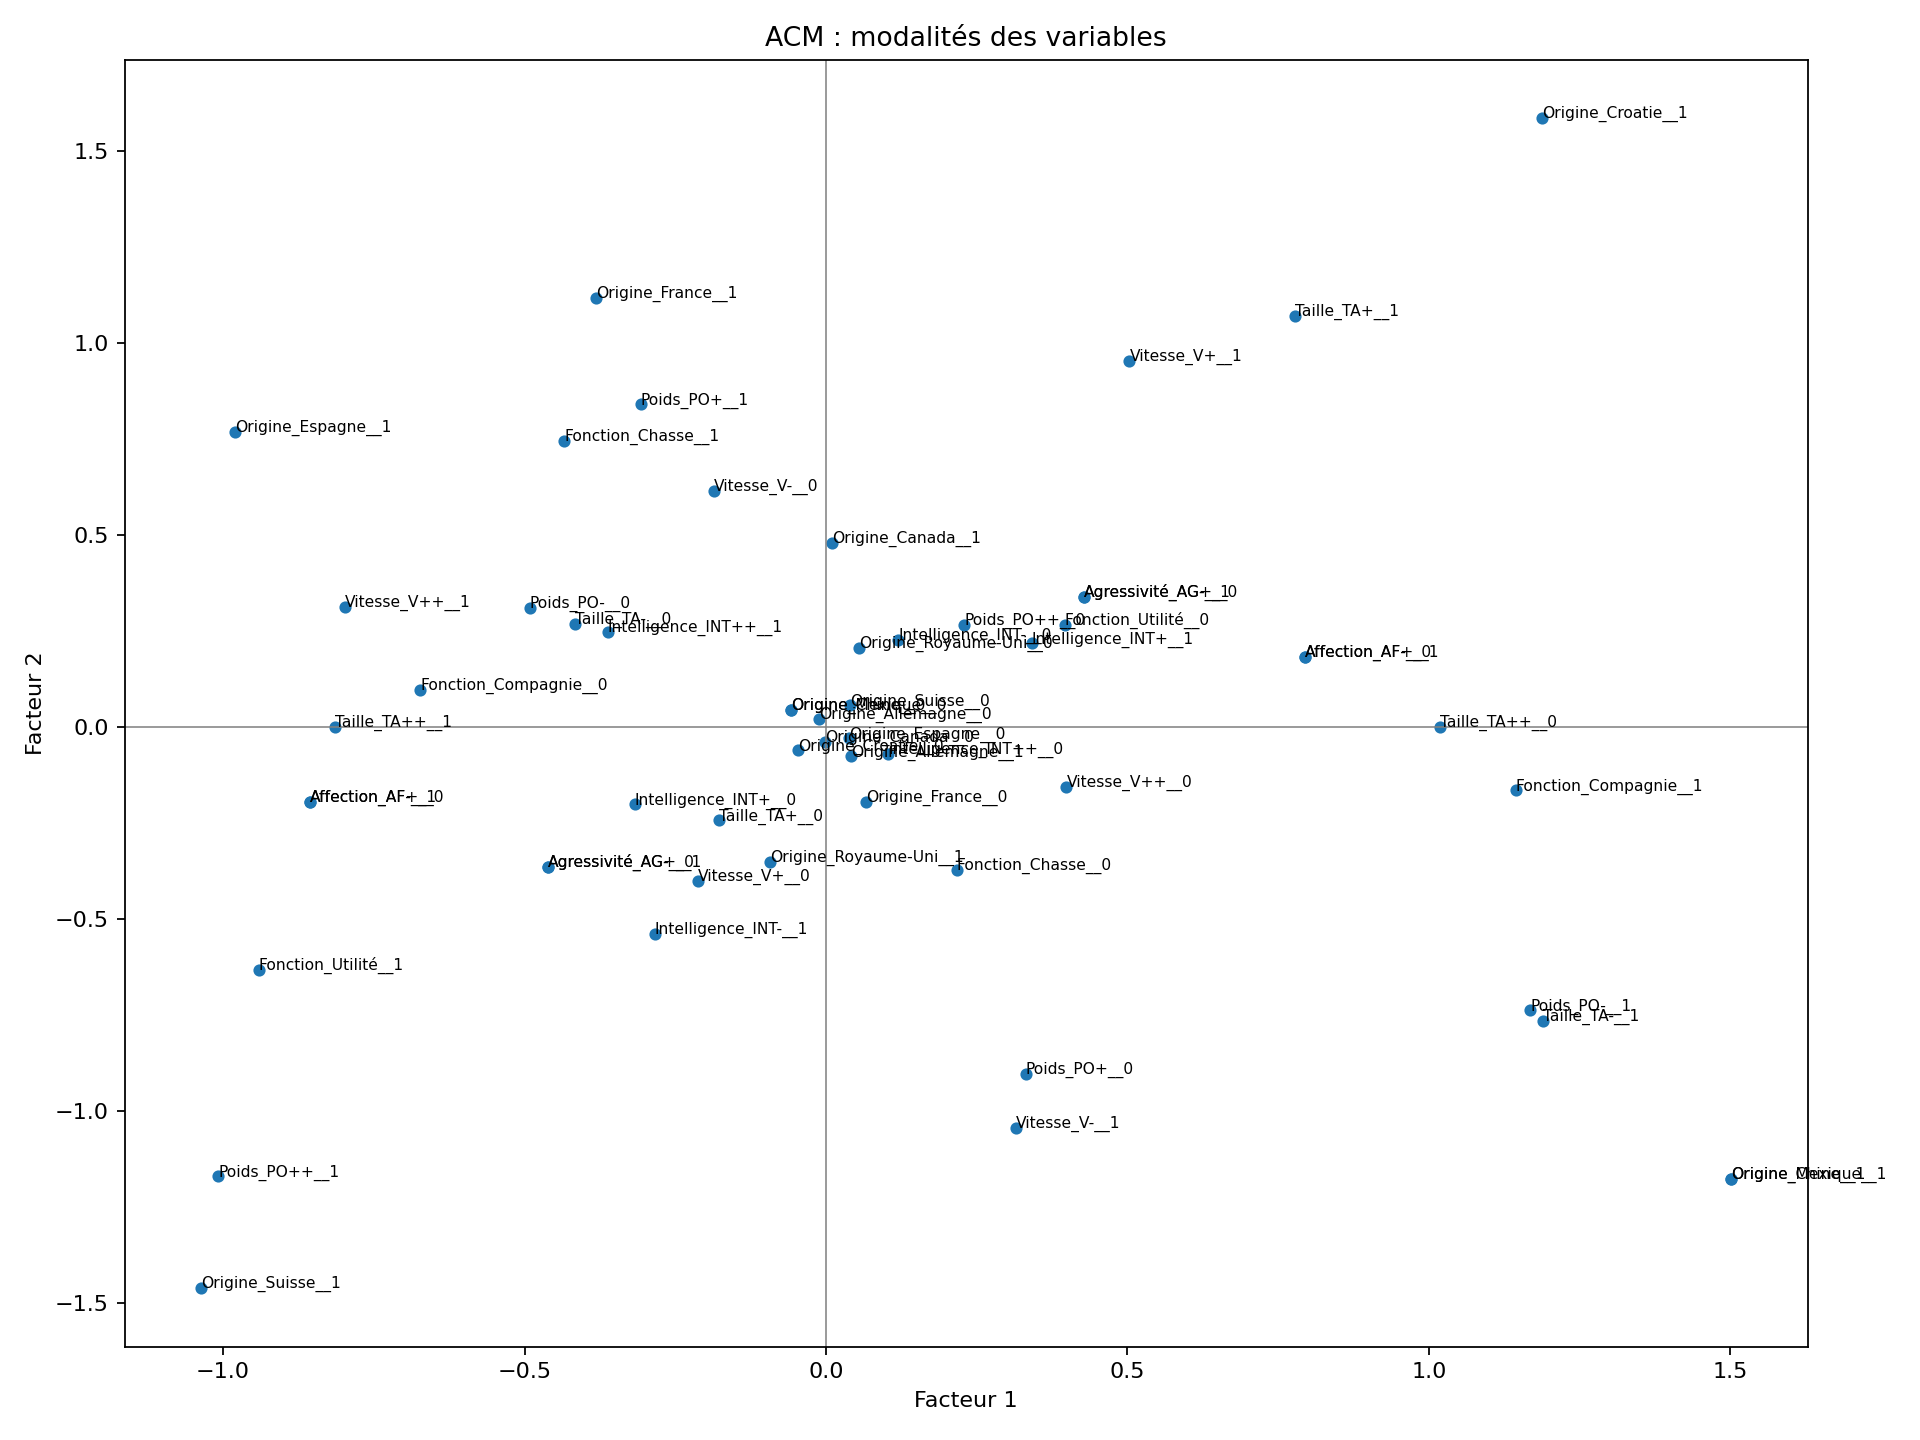
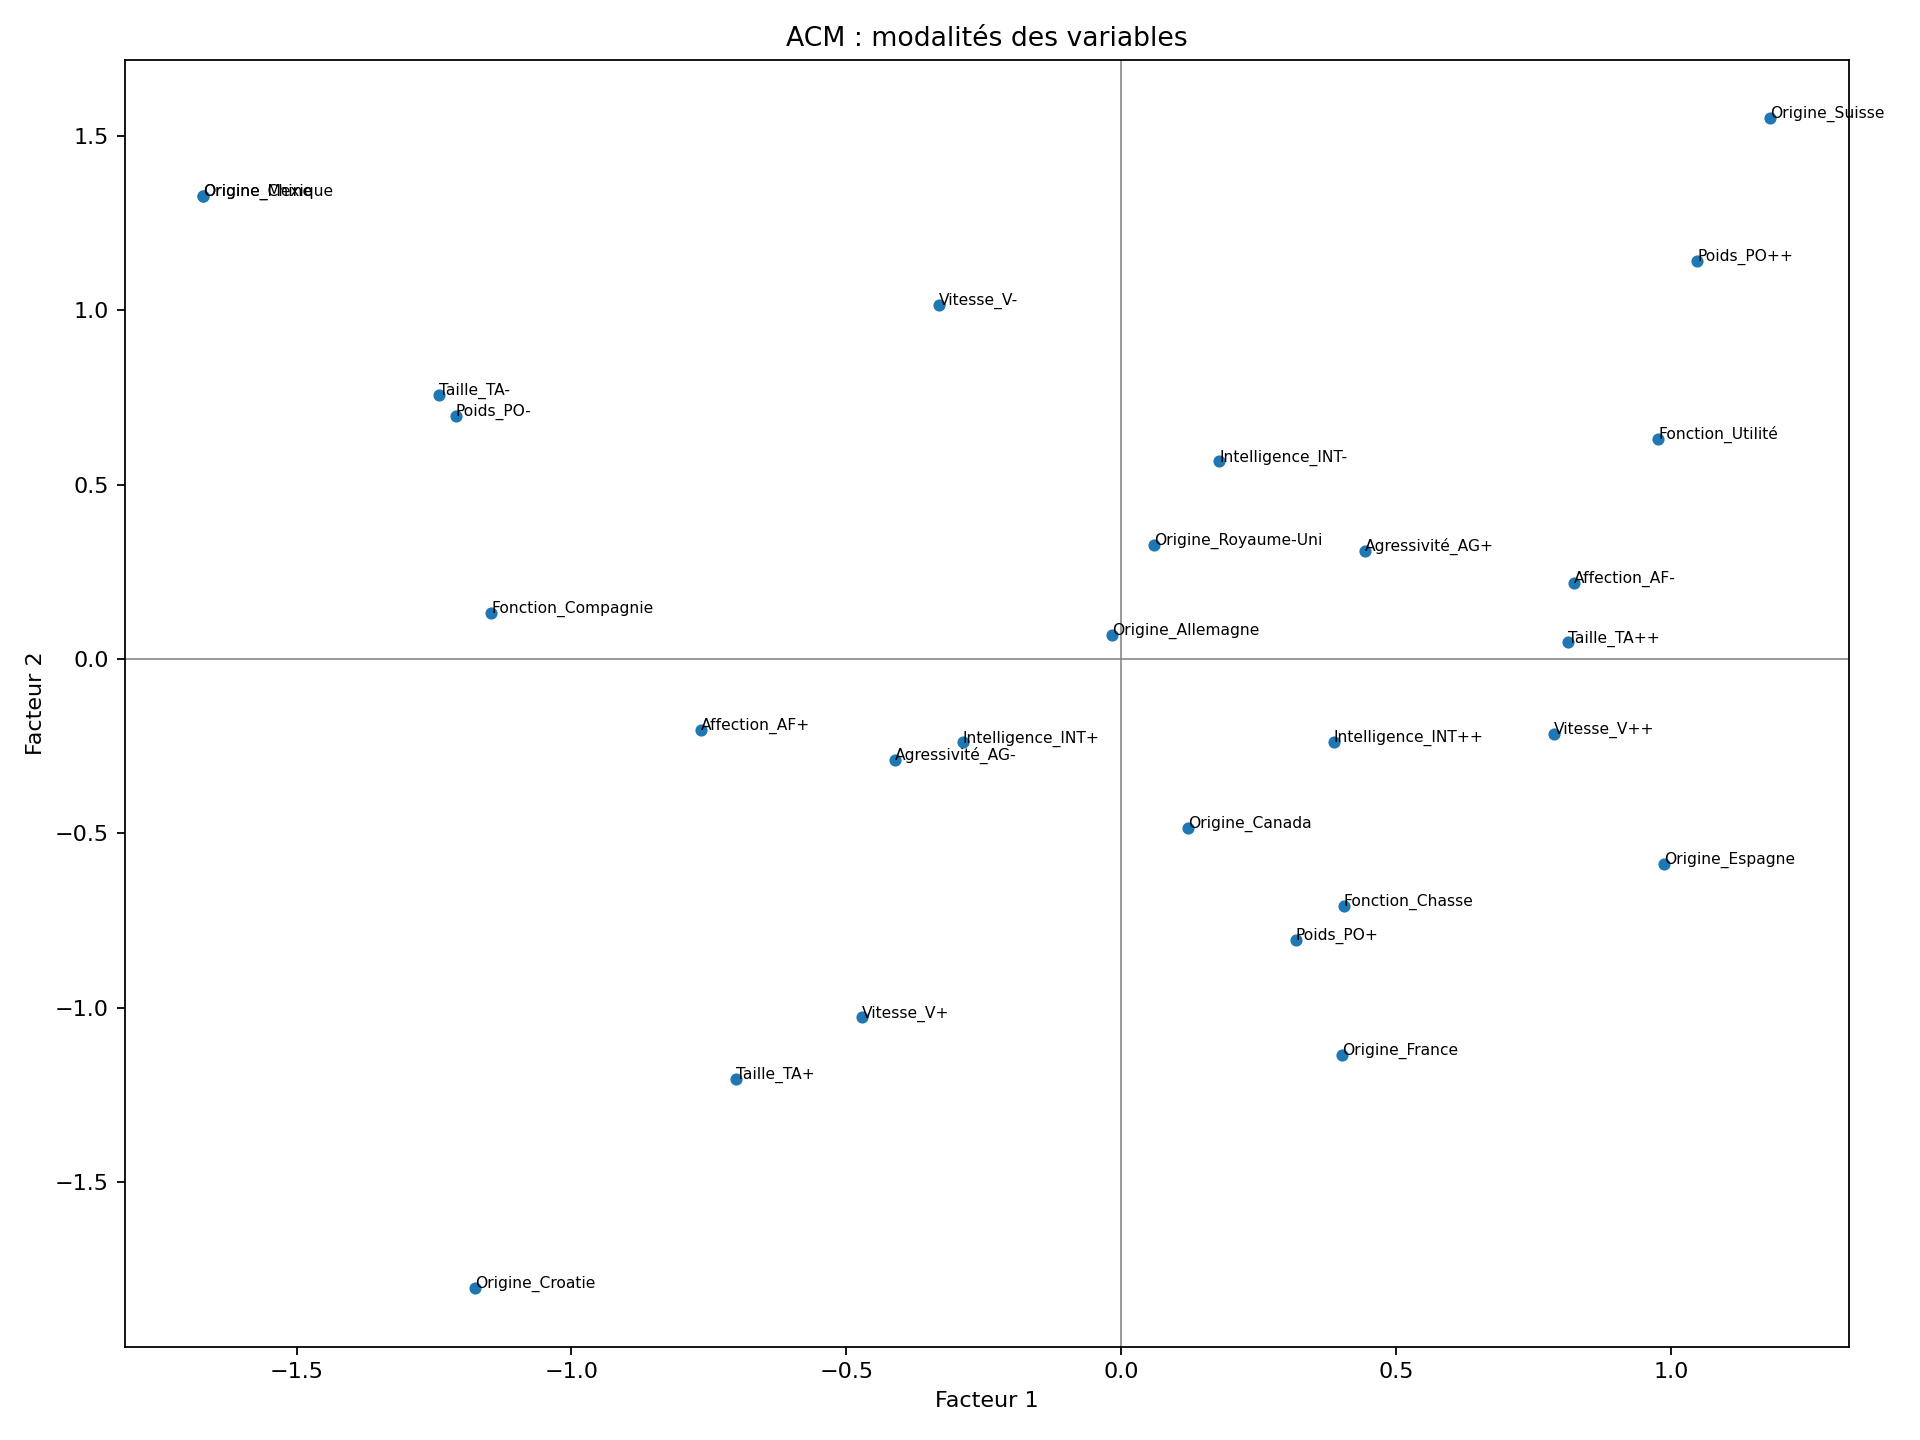
Corriger les calculs ACM de la séance 8

diff --git a/Seance-08/Exercice-GeoINT/src/main.py b/Seance-08/Exercice-GeoINT/src/main.py
@@ -381,9 +381,10 @@ exporter(
 
 acm = prince.MCA(
     n_components=8,
+    one_hot=False,
+    engine="scipy",
     random_state=42
 )
-
 acm = acm.fit(tdc)
 
 print("Question 2d : ACM calculée sur huit facteurs")
